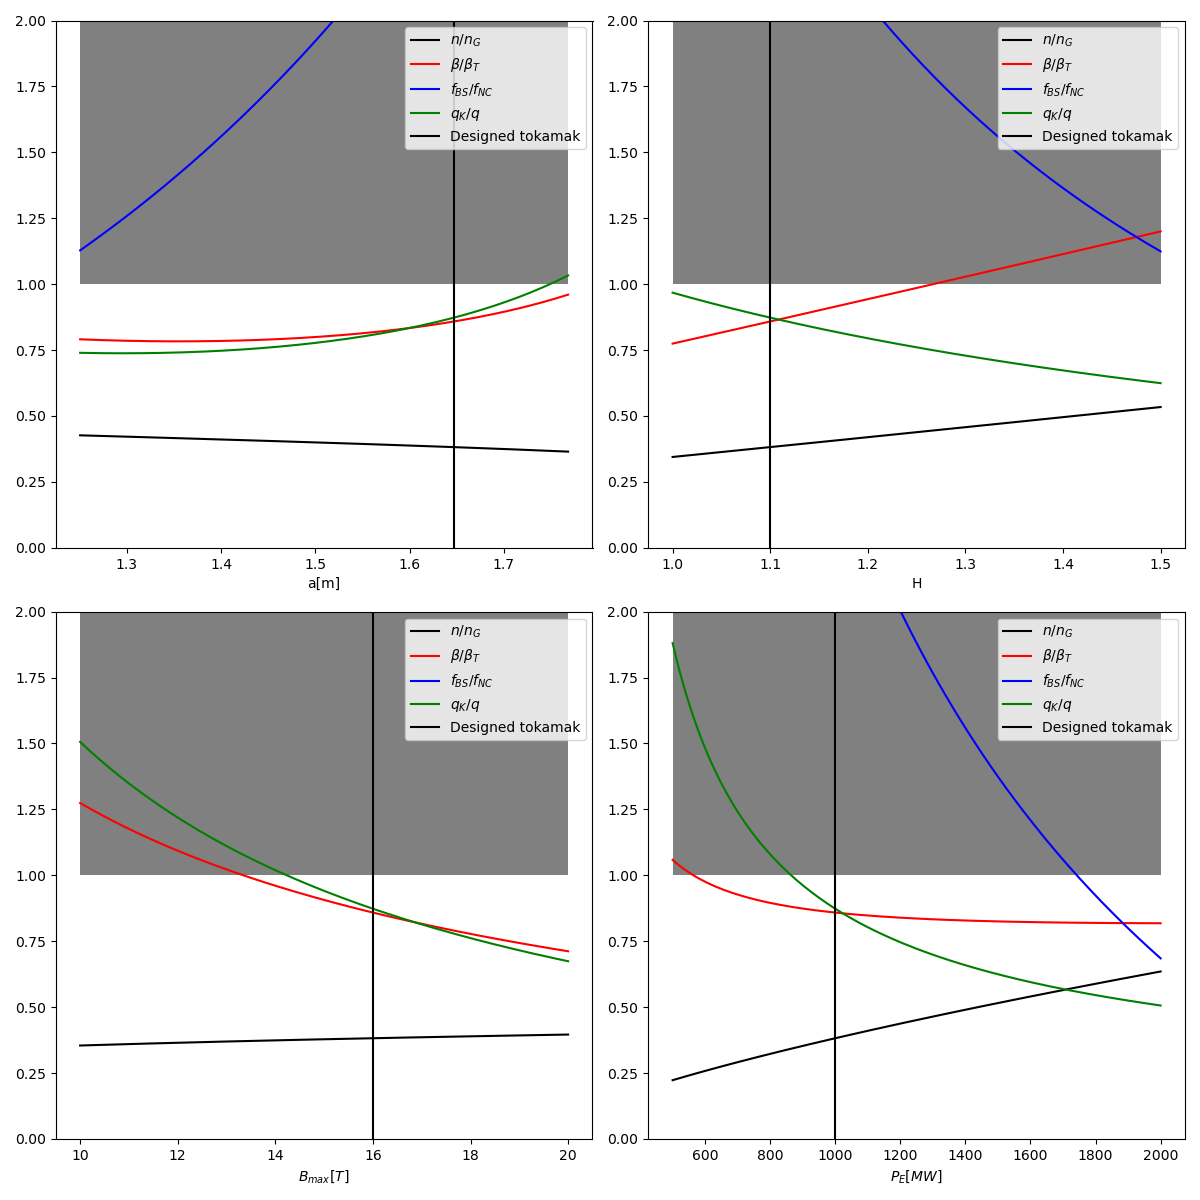
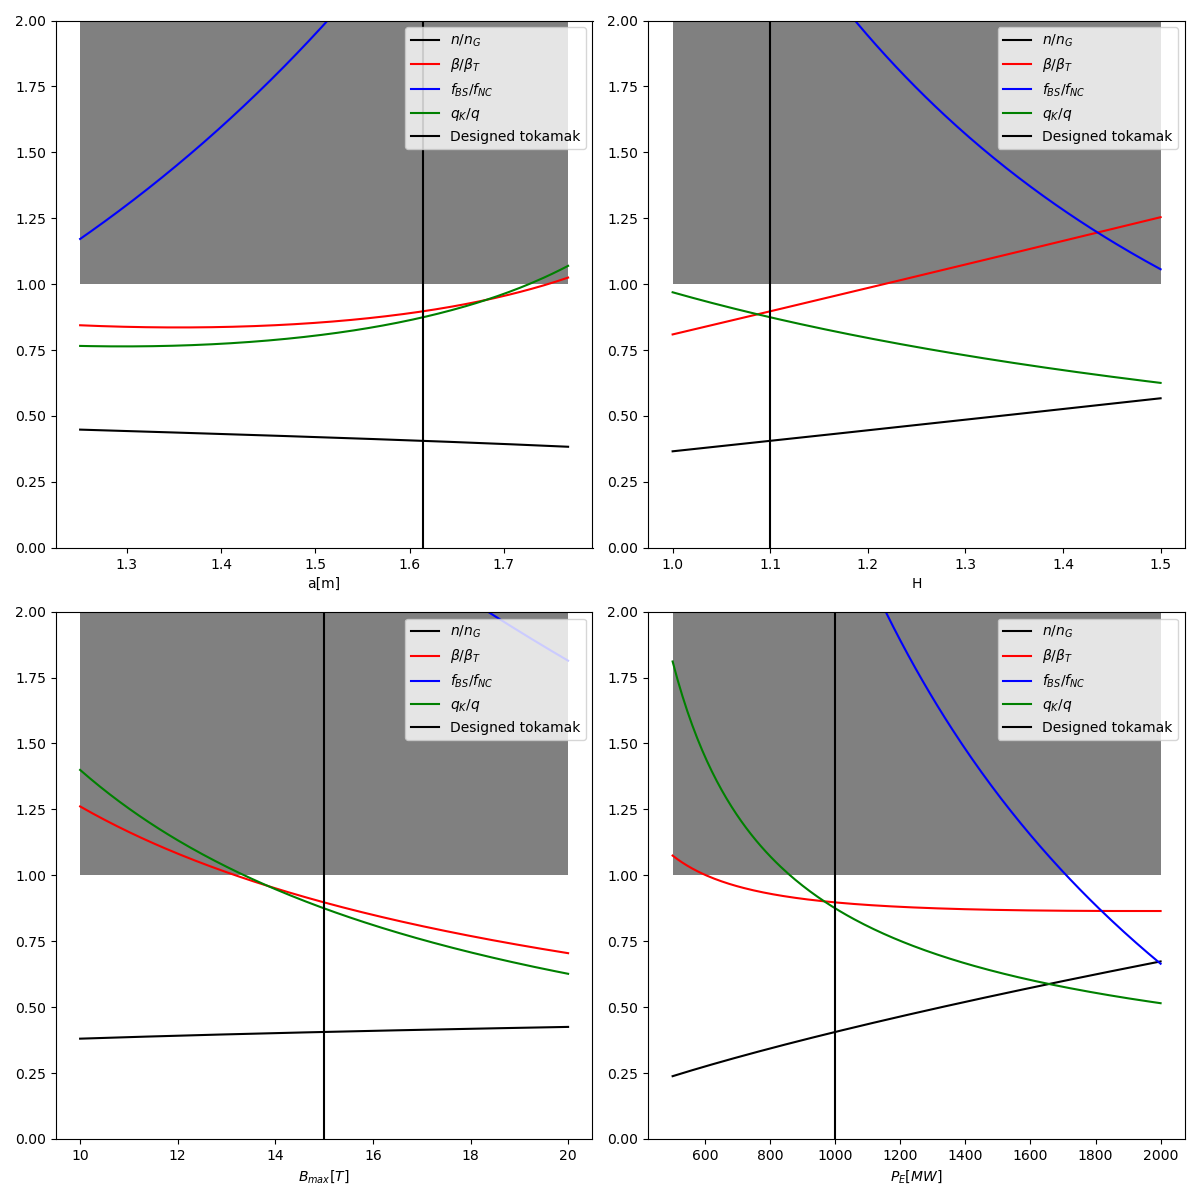
update project result and rl optimization result

diff --git a/config/device_info.py b/config/device_info.py
@@ -47,14 +47,58 @@ config_liquid = {
     "nu_p":1.5,
     "nu_n":0.5,
     "n_avg":1.43*10**20,
-    "T_avg":21, 
+    "T_avg":20, 
     "p_avg":8.0 * 1.01 * 10 ** 5,
     "conversion_efficiency":0.5,
     "absorption_efficiency":0.8,
     "betan":3.0,
     "Q":10,
     "k":1.5,
-    "epsilon": 3.4 / 1.18, 
+    "epsilon": 3.0, # 3.4 / 1.18, 
+    "tri":0,
+    "thermal_efficiency":0.4,
+    "electric_power":1000 * 10 ** 6,
+    "armour_thickness":0.1,
+    "armour_density":19.25 * 10 ** 6 * 6.02 * 10 ** 23 / 183,
+    "armour_cs":2.0 * 10 ** (-28),
+    "maximum_wall_load":4.0 * 10 ** 6 * 1.0,
+    "maximum_heat_load":0,
+    "shield_density":4.6 * 10 ** 28,
+    "shield_depth":0.1,
+    "shield_cs":2 * 10 ** (-28),
+    "Li_6_density":0.062 * 10 ** 6 / 7 * 6.02 * 10 ** 23 * 0.05,
+    "Li_7_density":0.062 * 10 ** 6 / 7 * 6.02 * 10 ** 23,
+    "slowing_down_cs":2 * 10 ** (-28),
+    "breeding_cs":950 * 10 ** (-28),
+    "E_thres":0.025 * 10 ** (-6),
+    "B0":15,
+    "H":1.1,
+    "maximum_allowable_J":20 * 10 ** 6 * 2.25,
+    "maximum_allowable_stress":600 * 10 ** 6 * 2.25,
+    "RF_recirculating_rate":0.1,
+    "pb_density" : 8.98 * 10 ** 6 / (204 + 7 * 17 / 83) * 6.02 * 10 ** 23, # None
+    "cs_pb_scatter" : 2.410 * 10 ** (-28),
+    "cs_pb_absorption" : 0.171 * 10 ** (-28),
+    "cs_pb_multi" : 2.47 * 10 ** (-28),
+    "c_density" : 2.2 * 10 ** 6 / 12 * 6.02 * 10 ** 23,
+    "cs_c_scatter" : 5.551 * 10 ** (-28),
+    "cs_c_absorption" : 0.00353 * 10 ** (-28),
+    "flux_ratio" : 1e-3,
+}
+
+config_by_rl = {
+    "nu_T":1.0,
+    "nu_p":1.5,
+    "nu_n":0.5,
+    "n_avg":1.43*10**20,
+    "T_avg":20, 
+    "p_avg":8.0 * 1.01 * 10 ** 5,
+    "conversion_efficiency":0.5,
+    "absorption_efficiency":0.8,
+    "betan":3.5,
+    "Q":10,
+    "k":1.7,
+    "epsilon": 2.8, 
     "tri":0,
     "thermal_efficiency":0.4,
     "electric_power":1000 * 10 ** 6,
@@ -72,55 +116,11 @@ config_liquid = {
     "breeding_cs":950 * 10 ** (-28),
     "E_thres":0.025 * 10 ** (-6),
     "B0":16,
-    "H":1.1,
+    "H":1.3,
     "maximum_allowable_J":20 * 10 ** 6 * 2.25,
     "maximum_allowable_stress":600 * 10 ** 6 * 2.25,
-    "RF_recirculating_rate":0.1,
-    "pb_density" : 8.98 * 10 ** 6 / (204 + 7 * 17 / 83) * 6.02 * 10 ** 23,
-    "cs_pb_scatter" : 2.410 * 10 ** (-28),
-    "cs_pb_absorption" : 0.171 * 10 ** (-28),
-    "cs_pb_multi" : 2.47 * 10 ** (-28),
-    "c_density" : 2.2 * 10 ** 6 / 12 * 6.02 * 10 ** 23,
-    "cs_c_scatter" : 5.551 * 10 ** (-28),
-    "cs_c_absorption" : 0.00353 * 10 ** (-28),
-    "flux_ratio" : 1e-3,
-}
-
-config_by_rl = {
-    "nu_T":1.0,
-    "nu_p":1.5,
-    "nu_n":0.5,
-    "n_avg":1.43*10**20,
-    "T_avg":25, 
-    "p_avg":8.0 * 1.01 * 10 ** 5,
-    "conversion_efficiency":0.5,
-    "absorption_efficiency":0.8,
-    "betan":3.5,
-    "Q":10,
-    "k":2.5,
-    "epsilon":2.948,  
-    "tri":0,
-    "thermal_efficiency":0.4,
-    "electric_power":1400 * 10 ** 6,
-    "armour_thickness":0.15,
-    "armour_density":19.25 * 10 ** 6 * 6.02 * 10 ** 23 / 183,
-    "armour_cs":2.0 * 10 ** (-28),
-    "maximum_wall_load":4.0 * 10 ** 6,
-    "maximum_heat_load":0,
-    "shield_density":4.6 * 10 ** 28,
-    "shield_depth":0.1,
-    "shield_cs":2 * 10 ** (-28),
-    "Li_6_density":0.062 * 10 ** 6 / 7 * 6.02 * 10 ** 23 * 0.05,
-    "Li_7_density":0.062 * 10 ** 6 / 7 * 6.02 * 10 ** 23,
-    "slowing_down_cs":2 * 10 ** (-28),
-    "breeding_cs":950 * 10 ** (-28),
-    "E_thres":0.025 * 10 ** (-6),
-    "B0":16,
-    "H":1.5,
-    "maximum_allowable_J":20 * 10 ** 6 * 2.25,
-    "maximum_allowable_stress":600 * 10 ** 6 * 2.25,
-    "RF_recirculating_rate":0.05,
-    "pb_density" : 8.98 * 10 ** 6 / (204 + 7 * 17 / 83) * 6.02 * 10 ** 23,
+    "RF_recirculating_rate":0.2,
+    "pb_density" : 8.98 * 10 ** 6 / (204 + 7 * 17 / 83) * 6.02 * 10 ** 23, # None
     "cs_pb_scatter" : 2.410 * 10 ** (-28),
     "cs_pb_absorption" : 0.171 * 10 ** (-28),
     "cs_pb_multi" : 2.47 * 10 ** (-28),

diff --git a/src/device.py b/src/device.py
@@ -578,6 +578,7 @@ class Tokamak:
         print("| Q-parallel : {:.2f} MW-T/m".format(self.compute_parallel_heat_flux()))
         print("| T_avg : {:.2f} keV".format(self.profile.T_avg))
         print("| n_avg : {:.2f}x10^20 #/m^3".format(self.profile.n_avg / 10 ** 20))
+        print("| p_avg : {:.2f} atm".format(self.profile.p_avg / (1.0 * 10 ** 5)))
         
         beta = self.compute_beta()
         beta_troyon = self.compute_troyon_beta()
@@ -637,6 +638,7 @@ class Tokamak:
                 f.write("\n| Q-parallel : {:.2f} MW-T/m".format(self.compute_parallel_heat_flux()))
                 f.write("\n| T_avg : {:.2f} keV".format(self.profile.T_avg))
                 f.write("\n| n_avg : {:.2f}x10^20 #/m^3".format(self.profile.n_avg / 10 ** 20))
+                f.write("\n| p_avg : {:.2f} atm".format(self.profile.p_avg / (1.0 * 10 ** 5)))
                 f.write("\n=============== Operation limit ================")
                 f.write("\n| Greenwald density : {:.3f}, operation density : {:.3f} | {}".format(ng, n, n_check))
                 f.write("\n| q-kink : {:.3f}, operation q : {:.3f} | {}".format(q_kink, q, q_check))

diff --git a/src/rl/ppo.py b/src/rl/ppo.py
@@ -19,13 +19,13 @@ Transition = namedtuple(
 
 default_action_range = {
     "betan":[2.0, 3.5],
-    "k" : [1.5, 2.5],
-    "epsilon" : [2.0, 5.0],
-    "electric_power" : [800, 1500],
-    "T_avg" : [10, 25],
-    "B0" : [10, 16],
-    "H" : [1.0, 1.5],
-    "armour_thickness": [0.01, 0.15],
+    "k" : [1.3, 1.7],
+    "epsilon" : [2.8, 3.2],
+    "electric_power" : [750, 1250],
+    "T_avg" : [18, 22],
+    "B0" : [13, 16],
+    "H" : [1.0, 1.3],
+    "armour_thickness": [0.08, 0.12],
     "RF_recirculating_rate":[0.05, 0.2],
 }
 
